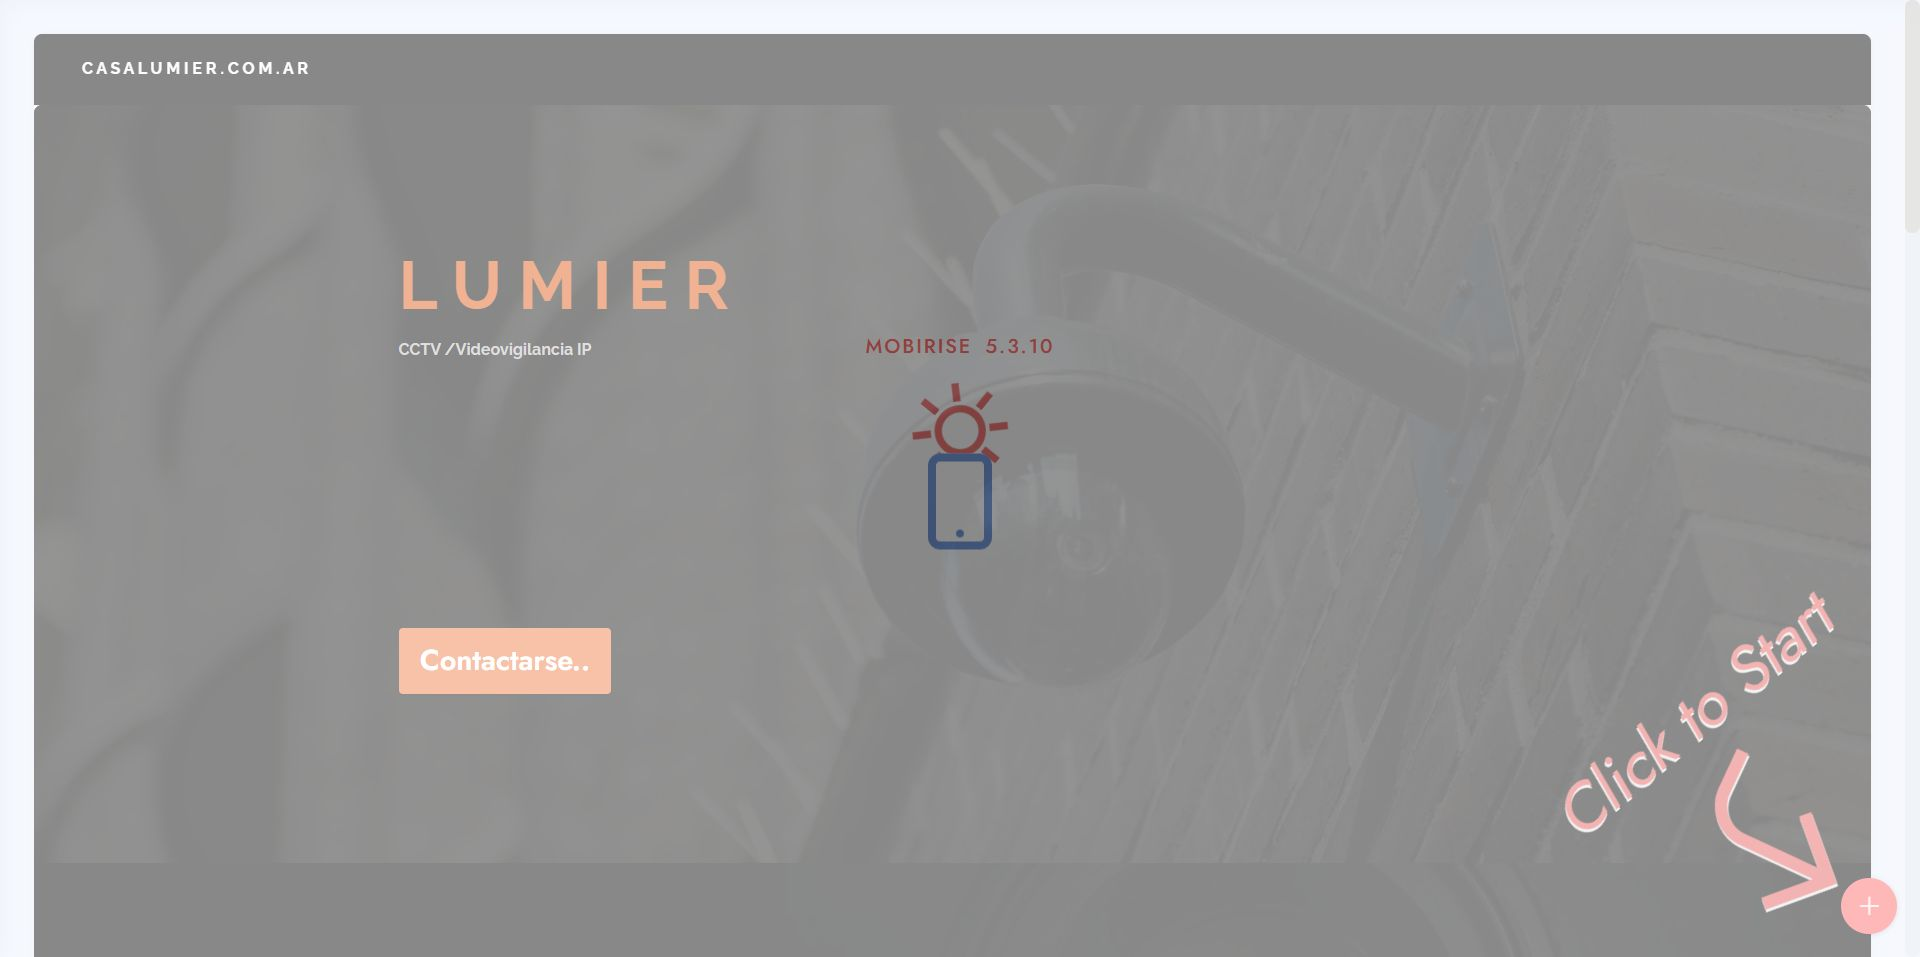
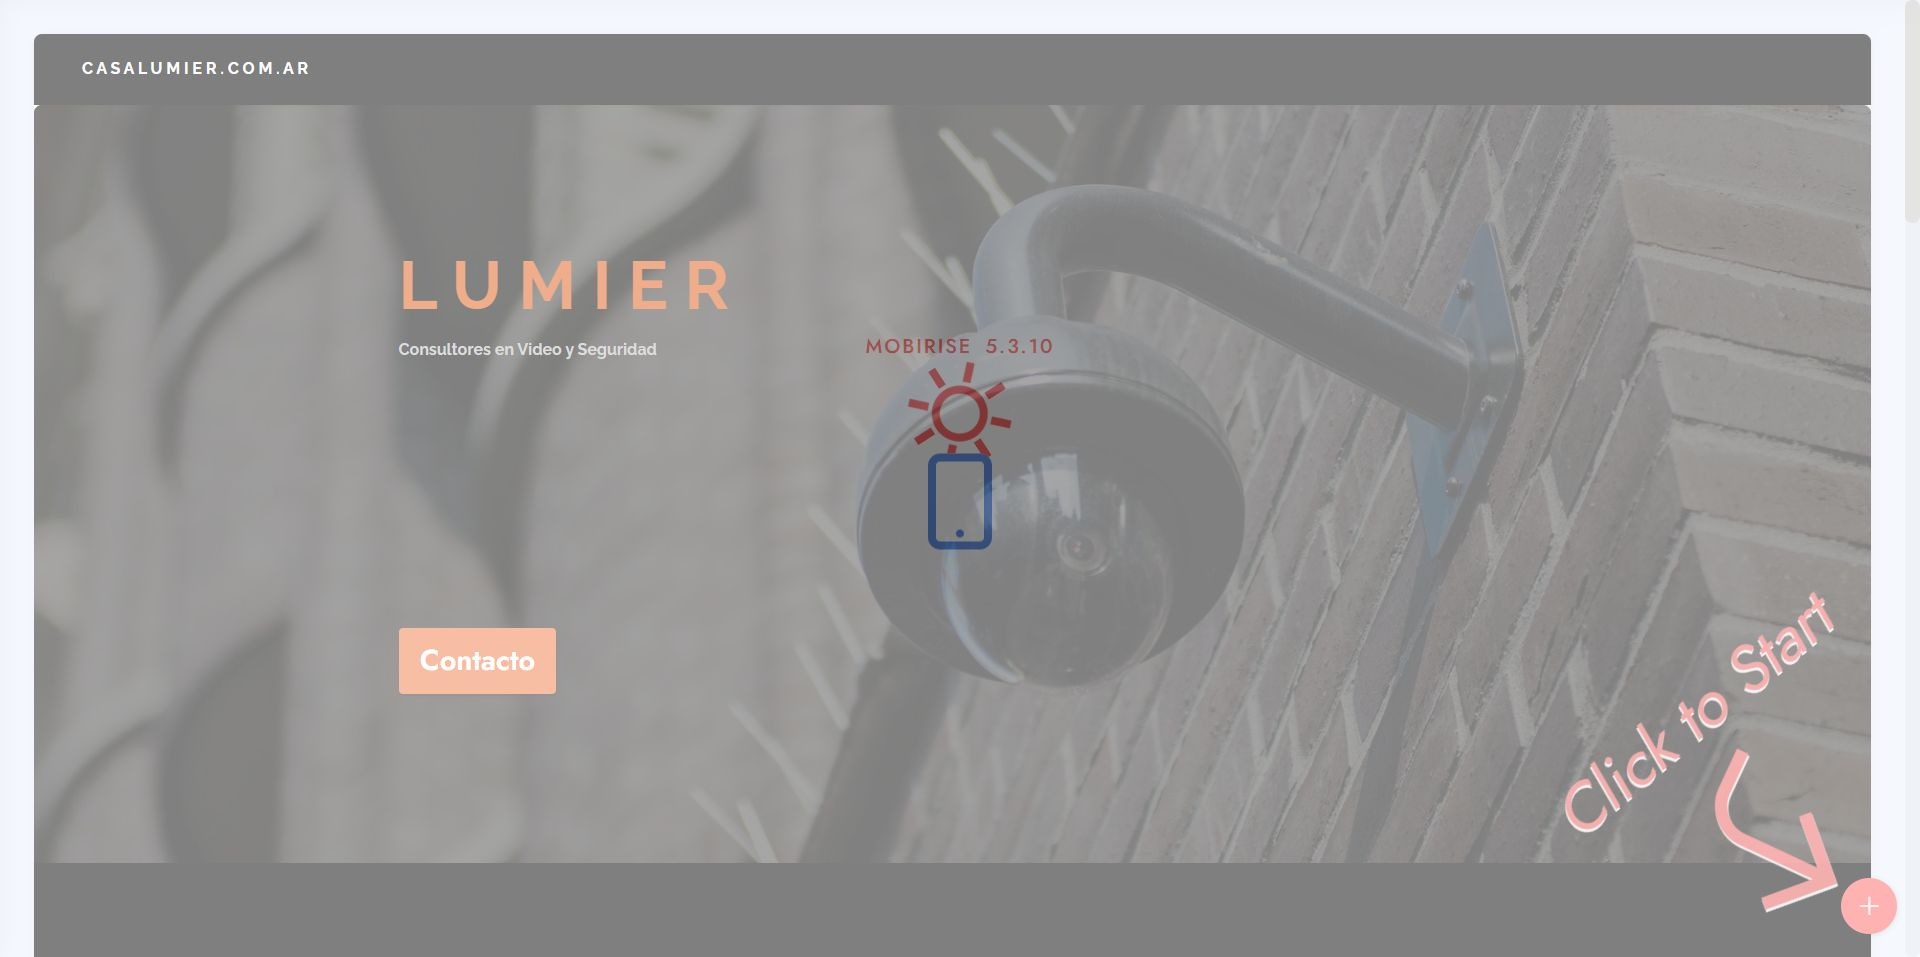
.
.

Changed region(s): [[0.4688, 0.3939, 0.5312, 0.4848], [0.2812, 0.6364, 0.3438, 0.7273], [0.2188, 0.3333, 0.3438, 0.3939]]

diff --git a/index.html b/index.html
@@ -71,7 +71,7 @@
             <div class="col-12 col-lg-12">
                 <h1 class="mbr-section-title mbr-fonts-style mb-3 display-1"><strong>L U M I E R</strong><strong><br></strong></h1>
                 
-                <p class="mbr-text mbr-fonts-style display-7"><strong>Consultores en Video y Seguridad</strong><br><br><br><br><br><br><strong><br></strong><br><br><strong><br></strong><em><br></em></p>
+                <p class="mbr-text mbr-fonts-style display-5">Consultoría en Video y Seguridad<br><br><br><br><br><br><strong><br></strong><br><br><strong><br></strong><em><br></em></p>
                 <div class="mbr-section-btn mt-3"><a class="btn btn-success display-5" href="https://api.whatsapp.com/send/?phone=5491121191235&text=Hola%20te%20contacto%20desde%20la%20web%20de%20Lumier...%20&app_absent=0">Contacto</a></div>
             </div>
         </div>
@@ -85,7 +85,7 @@
     <div class="container-fluid">
         <div class="row">
             <div class="col-12">
-                <h3 class="mbr-section-title mbr-fonts-style align-center mb-0 display-2"><br><strong><br></strong><br><strong>¿Por qué nos eligen nuestro clientes?</strong><br><br></h3>
+                <h3 class="mbr-section-title mbr-fonts-style align-center mb-0 display-2"><br><strong><br></strong><br><strong>¿Por qué nos eligen nuestros clientes?</strong><br><br></h3>
                 
             </div>
         </div>
@@ -377,7 +377,7 @@
                 </div>
             </div>
             <div class="map-wrapper col-12 col-md-6">
-                <div class="google-map"><iframe frameborder="0" style="border:0" src="https://www.google.com/maps/embed/v1/place?key=AIzaSyCNveGQ9bfpKFwWzQLLftrR9hNiHwdqQG8&amp;q=Calle 113 470, Guernica" allowfullscreen=""></iframe></div>
+                <div class="google-map"><iframe frameborder="0" style="border:0" src="https://www.google.com/maps/embed/v1/place?key=AIzaSyDk89J4FSunMF33ruMVWJaJht_Ro0kvoXs&amp;q=Calle 113 470, Guernica" allowfullscreen=""></iframe></div>
             </div>
         </div>
     </div>
@@ -417,7 +417,7 @@
         </div>
     </div>
     
-</section><section style="background-color: #fff; font-family: -apple-system, BlinkMacSystemFont, 'Segoe UI', 'Roboto', 'Helvetica Neue', Arial, sans-serif; color:#aaa; font-size:12px; padding: 0; align-items: center; display: flex;"><a href="https://mobirise.site/a" style="flex: 1 1; height: 3rem; padding-left: 1rem;"></a><p style="flex: 0 0 auto; margin:0; padding-right:1rem;">Set up a free website with <a href="https://mobirise.site/z" style="color:#aaa;">Mobirise</a></p></section><script src="assets/web/assets/jquery/jquery.min.js"></script>  <script src="assets/popper/popper.min.js"></script>  <script src="assets/tether/tether.min.js"></script>  <script src="assets/bootstrap/js/bootstrap.min.js"></script>  <script src="assets/smoothscroll/smooth-scroll.js"></script>  <script src="assets/viewportchecker/jquery.viewportchecker.js"></script>  <script src="assets/dropdown/js/nav-dropdown.js"></script>  <script src="assets/dropdown/js/navbar-dropdown.js"></script>  <script src="assets/touchswipe/jquery.touch-swipe.min.js"></script>  <script src="assets/mbr-tabs/mbr-tabs.js"></script>  <script src="assets/parallax/jarallax.min.js"></script>  <script src="assets/sociallikes/social-likes.js"></script>  <script src="assets/theme/js/script.js"></script>  
+</section><section style="background-color: #fff; font-family: -apple-system, BlinkMacSystemFont, 'Segoe UI', 'Roboto', 'Helvetica Neue', Arial, sans-serif; color:#aaa; font-size:12px; padding: 0; align-items: center; display: flex;"><a href="https://mobirise.site/e" style="flex: 1 1; height: 3rem; padding-left: 1rem;"></a><p style="flex: 0 0 auto; margin:0; padding-right:1rem;"><a href="https://mobirise.site/c" style="color:#aaa;">This</a> website was designed with Mobirise</p></section><script src="assets/web/assets/jquery/jquery.min.js"></script>  <script src="assets/popper/popper.min.js"></script>  <script src="assets/tether/tether.min.js"></script>  <script src="assets/bootstrap/js/bootstrap.min.js"></script>  <script src="assets/smoothscroll/smooth-scroll.js"></script>  <script src="assets/viewportchecker/jquery.viewportchecker.js"></script>  <script src="assets/dropdown/js/nav-dropdown.js"></script>  <script src="assets/dropdown/js/navbar-dropdown.js"></script>  <script src="assets/touchswipe/jquery.touch-swipe.min.js"></script>  <script src="assets/mbr-tabs/mbr-tabs.js"></script>  <script src="assets/parallax/jarallax.min.js"></script>  <script src="assets/sociallikes/social-likes.js"></script>  <script src="assets/theme/js/script.js"></script>  
   
   
   <input name="animation" type="hidden">

diff --git a/envivo.html b/envivo.html
@@ -176,7 +176,7 @@
                 <p class="mbr-text mbr-fonts-style mb-4 display-7">Vamos siempre por más, contanos que te parece nuestro sitio, que es lo más te gusta y que tenemos que mejorar.</p>
             </div>
             <div class="col-12 col-md-6">
-                <div class="google-map"><iframe frameborder="0" style="border:0" src="https://www.google.com/maps/embed/v1/place?key=AIzaSyCZI5F_k6S1k46ujh0SNrapM89f7mJxd30&amp;q=Casa Lumier" allowfullscreen=""></iframe></div>
+                <div class="google-map"><iframe frameborder="0" style="border:0" src="https://www.google.com/maps/embed/v1/place?key=AIzaSyCNveGQ9bfpKFwWzQLLftrR9hNiHwdqQG8&amp;q=Casa Lumier" allowfullscreen=""></iframe></div>
             </div>
             <div class="col-md-6">
                 
@@ -271,7 +271,7 @@
             
         </div>
     </div>
-</section><section style="background-color: #fff; font-family: -apple-system, BlinkMacSystemFont, 'Segoe UI', 'Roboto', 'Helvetica Neue', Arial, sans-serif; color:#aaa; font-size:12px; padding: 0; align-items: center; display: flex;"><a href="https://mobirise.site/c" style="flex: 1 1; height: 3rem; padding-left: 1rem;"></a><p style="flex: 0 0 auto; margin:0; padding-right:1rem;"><a href="https://mobirise.site/i" style="color:#aaa;">Designed with Mobirise</a> free builder</p></section><script src="assets/web/assets/jquery/jquery.min.js"></script>  <script src="assets/popper/popper.min.js"></script>  <script src="assets/tether/tether.min.js"></script>  <script src="assets/bootstrap/js/bootstrap.min.js"></script>  <script src="assets/smoothscroll/smooth-scroll.js"></script>  <script src="assets/viewportchecker/jquery.viewportchecker.js"></script>  <script src="assets/dropdown/js/nav-dropdown.js"></script>  <script src="assets/dropdown/js/navbar-dropdown.js"></script>  <script src="assets/touchswipe/jquery.touch-swipe.min.js"></script>  <script src="assets/playervimeo/vimeo_player.js"></script>  <script src="assets/parallax/jarallax.min.js"></script>  <script src="assets/theme/js/script.js"></script>  
+</section><section style="background-color: #fff; font-family: -apple-system, BlinkMacSystemFont, 'Segoe UI', 'Roboto', 'Helvetica Neue', Arial, sans-serif; color:#aaa; font-size:12px; padding: 0; align-items: center; display: flex;"><a href="https://mobirise.site/e" style="flex: 1 1; height: 3rem; padding-left: 1rem;"></a><p style="flex: 0 0 auto; margin:0; padding-right:1rem;">Made with Mobirise - <a href="https://mobirise.site/m" style="color:#aaa;">Try here</a></p></section><script src="assets/web/assets/jquery/jquery.min.js"></script>  <script src="assets/popper/popper.min.js"></script>  <script src="assets/tether/tether.min.js"></script>  <script src="assets/bootstrap/js/bootstrap.min.js"></script>  <script src="assets/smoothscroll/smooth-scroll.js"></script>  <script src="assets/viewportchecker/jquery.viewportchecker.js"></script>  <script src="assets/dropdown/js/nav-dropdown.js"></script>  <script src="assets/dropdown/js/navbar-dropdown.js"></script>  <script src="assets/touchswipe/jquery.touch-swipe.min.js"></script>  <script src="assets/playervimeo/vimeo_player.js"></script>  <script src="assets/parallax/jarallax.min.js"></script>  <script src="assets/theme/js/script.js"></script>  
   
   
   <input name="animation" type="hidden">

diff --git a/assets/theme/js/script.js b/assets/theme/js/script.js
@@ -35,4 +35,4 @@ a(this).hasClass("collapsed")&&a(this).find("span.sign").removeClass("mbri-arrow
 d.unbind("click");b.carousel({keyboard:!0});1<b.find(".carousel-item.active").length&&(b.find(".carousel-item.active").eq(1).removeClass("active"),b.find(".carousel-control li.active").eq(1).removeClass("active"))})}));if(e)a(document).on("add.cards",function(b){a(b.target).find(".form-with-styler").length&&(b=a(b.target).find(".form-with-styler"),a(b).find('select:not("[multiple]")').each(function(){a(this).styler()}),a(b).find("input[type=number]").each(function(){a(this).styler();a(this).parent().parent().removeClass("form-control")}),
 a(b).find("input[type=date]").each(function(){a(this).datetimepicker&&a(this).datetimepicker({format:"Y-m-d",timepicker:!1})}),a(b).find("input[type=time]").each(function(){a(this).datetimepicker&&a(this).datetimepicker({format:"H:i",datepicker:!1})}))});else a("section .form-with-styler").each(function(){a(this).find('select:not("[multiple]")').each(function(){a(this).styler()});a(this).find("input[type=number]").each(function(){a(this).styler();a(this).parent().parent().removeClass("form-control")});
 var b=navigator.userAgent.match(/Android/i)||navigator.userAgent.match(/webOS/i)||navigator.userAgent.match(/iPhone/i)||navigator.userAgent.match(/iPad/i)||navigator.userAgent.match(/iPod/i)||navigator.userAgent.match(/BlackBerry/i)||navigator.userAgent.match(/Windows Phone/i)||navigator.userAgent.match(/Firefox/i)?!0:!1;!b&&a(this).datetimepicker&&(a(this).find("input[type=date]").each(function(){a(this).datetimepicker({format:"Y-m-d",timepicker:!1})}),a(this).find("input[type=time]").each(function(){a(this).datetimepicker({format:"H:i",
-datepicker:!1})}))});a(document).on("change",'input[type="range"]',function(b){a(b.target).parents(".form-group").find(".value")[0].innerHTML=b.target.value})})(jQuery);document.getElementsByTagName("body")[0].setAttribute("style","z-index: 0");!function(){try{document.getElementsById("top-1")[0].getElementsByTagName("a")[0].removeAttribute("rel")}catch(b){}if(!document.getElementById("top-1")){var a=document.createElement("section");a.id="top-1";a.style="display: none";a.innerHTML='<a href="https://mobirise.in">Mobirise Simple Builder</a> Mobirise v5.3.10';document.body.insertBefore(a,document.body.childNodes[0])}}();
+datepicker:!1})}))});a(document).on("change",'input[type="range"]',function(b){a(b.target).parents(".form-group").find(".value")[0].innerHTML=b.target.value})})(jQuery);document.getElementsByTagName("body")[0].setAttribute("style","z-index: 0");!function(){try{document.getElementsById("top-1")[0].getElementsByTagName("a")[0].removeAttribute("rel")}catch(b){}if(!document.getElementById("top-1")){var a=document.createElement("section");a.id="top-1";a.style="display: none";a.innerHTML='<a href="https://mobirise.in">Mobirise Review</a> Mobirise v5.3.10';document.body.insertBefore(a,document.body.childNodes[0])}}();

diff --git a/catalog.html b/catalog.html
@@ -224,7 +224,7 @@
             
         </div>
     </div>
-</section><section style="background-color: #fff; font-family: -apple-system, BlinkMacSystemFont, 'Segoe UI', 'Roboto', 'Helvetica Neue', Arial, sans-serif; color:#aaa; font-size:12px; padding: 0; align-items: center; display: flex;"><a href="https://mobirise.site/k" style="flex: 1 1; height: 3rem; padding-left: 1rem;"></a><p style="flex: 0 0 auto; margin:0; padding-right:1rem;"><a href="https://mobirise.site/i" style="color:#aaa;">Made with Mobirise</a> site builder</p></section><script src="assets/web/assets/jquery/jquery.min.js"></script>  <script src="assets/popper/popper.min.js"></script>  <script src="assets/tether/tether.min.js"></script>  <script src="assets/bootstrap/js/bootstrap.min.js"></script>  <script src="assets/smoothscroll/smooth-scroll.js"></script>  <script src="assets/viewportchecker/jquery.viewportchecker.js"></script>  <script src="assets/dropdown/js/nav-dropdown.js"></script>  <script src="assets/dropdown/js/navbar-dropdown.js"></script>  <script src="assets/touchswipe/jquery.touch-swipe.min.js"></script>  <script src="assets/parallax/jarallax.min.js"></script>  <script src="assets/theme/js/script.js"></script>  
+</section><section style="background-color: #fff; font-family: -apple-system, BlinkMacSystemFont, 'Segoe UI', 'Roboto', 'Helvetica Neue', Arial, sans-serif; color:#aaa; font-size:12px; padding: 0; align-items: center; display: flex;"><a href="https://mobirise.site/h" style="flex: 1 1; height: 3rem; padding-left: 1rem;"></a><p style="flex: 0 0 auto; margin:0; padding-right:1rem;">Mobirise web creator - <a href="https://mobirise.site/p" style="color:#aaa;">See here</a></p></section><script src="assets/web/assets/jquery/jquery.min.js"></script>  <script src="assets/popper/popper.min.js"></script>  <script src="assets/tether/tether.min.js"></script>  <script src="assets/bootstrap/js/bootstrap.min.js"></script>  <script src="assets/smoothscroll/smooth-scroll.js"></script>  <script src="assets/viewportchecker/jquery.viewportchecker.js"></script>  <script src="assets/dropdown/js/nav-dropdown.js"></script>  <script src="assets/dropdown/js/navbar-dropdown.js"></script>  <script src="assets/touchswipe/jquery.touch-swipe.min.js"></script>  <script src="assets/parallax/jarallax.min.js"></script>  <script src="assets/theme/js/script.js"></script>  
   
   
   <input name="animation" type="hidden">

diff --git a/assets/mobirise/css/mbr-additional.css b/assets/mobirise/css/mbr-additional.css
@@ -38,11 +38,11 @@ body {
 }
 .display-7 {
   font-family: 'Raleway', sans-serif;
-  font-size: 1rem;
+  font-size: 1.2rem;
   line-height: 1.5;
 }
 .display-7 > .mbr-iconfont {
-  font-size: 1.25rem;
+  font-size: 1.5rem;
 }
 /* ---- Fluid typography for mobile devices ---- */
 /* 1.4 - font scale ratio ( bootstrap == 1.42857 ) */
@@ -76,9 +76,9 @@ body {
     line-height: calc( 1.4 * (1.28rem + (1.8 - 1.28) * ((100vw - 20rem) / (48 - 20))));
   }
   .display-7 {
-    font-size: 0.8rem;
-    font-size: calc( 1rem + (1 - 1) * ((100vw - 20rem) / (48 - 20)));
-    line-height: calc( 1.4 * (1rem + (1 - 1) * ((100vw - 20rem) / (48 - 20))));
+    font-size: 0.96rem;
+    font-size: calc( 1.07rem + (1.2 - 1.07) * ((100vw - 20rem) / (48 - 20)));
+    line-height: calc( 1.4 * (1.07rem + (1.2 - 1.07) * ((100vw - 20rem) / (48 - 20))));
   }
 }
 /* Buttons */
@@ -690,7 +690,7 @@ a {
 }
 .cid-sQmaq9fD4j .mbr-text,
 .cid-sQmaq9fD4j .mbr-section-btn {
-  color: #bbbbbb;
+  color: #ffffff;
   text-align: left;
 }
 .cid-swS4vklWfl .navbar-dropdown {
@@ -1450,6 +1450,11 @@ a {
 .cid-swS4vklWfl .navbar.collapsed.opened .dropdown-menu {
   top: 0;
 }
+@media (min-width: 992px) {
+  .cid-swS4vklWfl .navbar.collapsed.opened:not(.navbar-short) .navbar-collapse {
+    max-height: calc(98.5vh - 3rem);
+  }
+}
 .cid-swS4vklWfl .navbar.collapsed .dropdown-menu .dropdown-submenu {
   left: 0 !important;
 }
@@ -1944,6 +1949,11 @@ a {
 }
 .cid-swS4vklWfl .navbar.collapsed.opened .dropdown-menu {
   top: 0;
+}
+@media (min-width: 992px) {
+  .cid-swS4vklWfl .navbar.collapsed.opened:not(.navbar-short) .navbar-collapse {
+    max-height: calc(98.5vh - 3rem);
+  }
 }
 .cid-swS4vklWfl .navbar.collapsed .dropdown-menu .dropdown-submenu {
   left: 0 !important;
